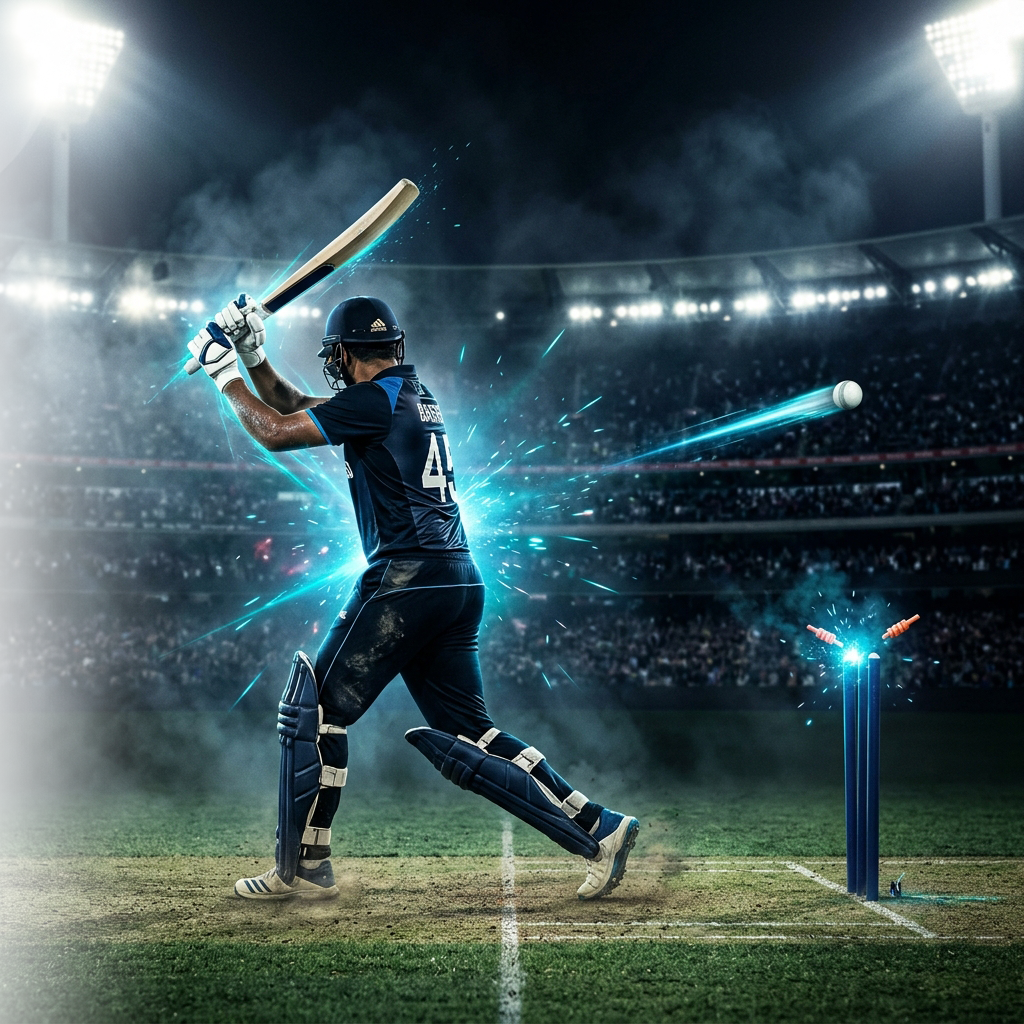
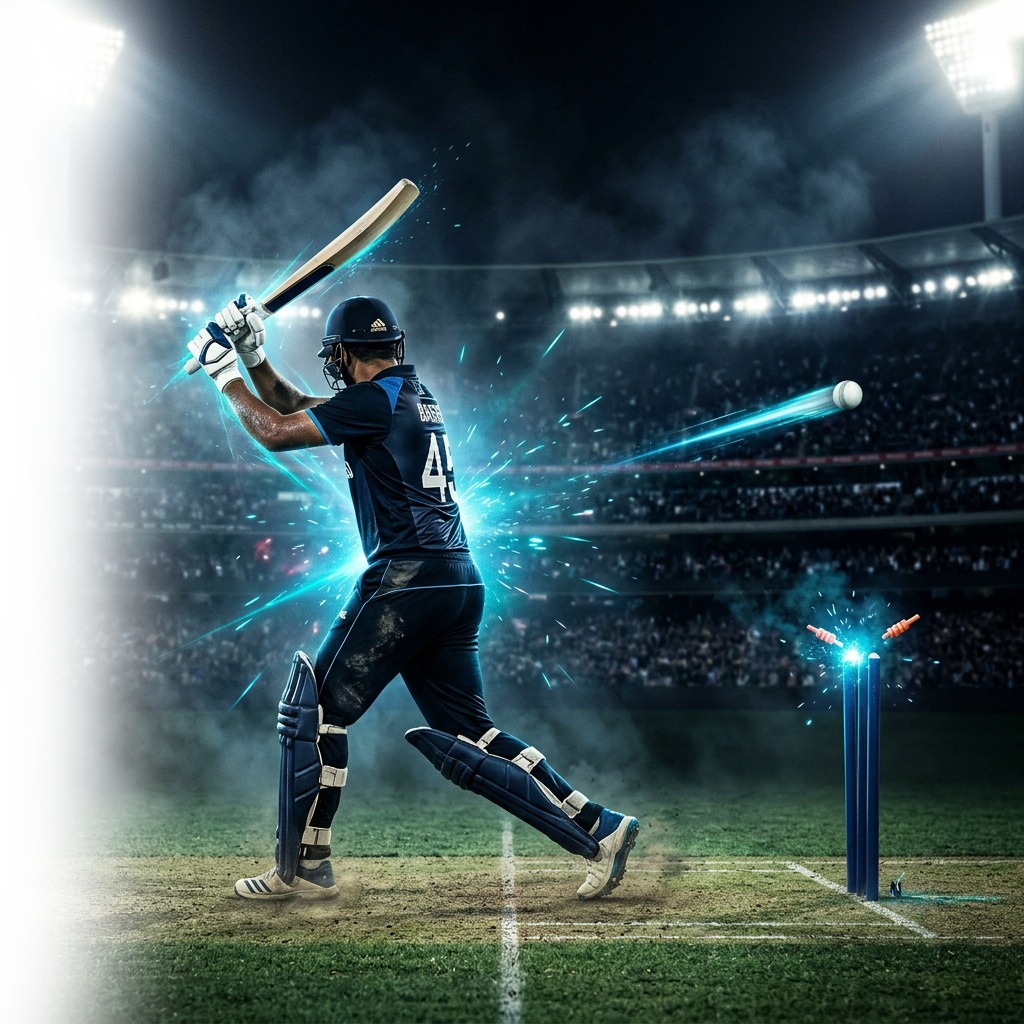
Edit hero section and  memories in gallery component

Changed region(s): [[0.0, 0.0, 0.1875, 1.0]]

diff --git a/src/components/MemoriesGallery.tsx b/src/components/MemoriesGallery.tsx
@@ -5,71 +5,122 @@ import { motion, useInView } from "framer-motion";
 import { Camera, ZoomIn } from "lucide-react";
 import Image from "next/image";
 
-/* ── Each memory tile ──────────────────────────────────────── */
+/* ── Memory tile data ──────────────────────────────────────── */
 interface Memory {
   id: number;
   year: string;
   caption: string;
-  /** Set src to a real image path once photos are available */
   src: string | null;
-  /** Tailwind gradient to use when src is null */
   gradient: string;
-  /** Bento span classes */
+  /** Responsive Tailwind grid span classes */
   span: string;
 }
 
 const MEMORIES: Memory[] = [
+  /* ── Group 1: Bento block (rows 1-3) ── */
   {
     id: 1,
     year: "InfoBash IV",
     caption: "Champions lift the trophy",
     src: null,
     gradient: "from-blue-900 via-blue-800 to-cyan-700",
-    span: "col-span-2 row-span-2",
+    span: "col-span-2 row-span-2 sm:row-span-3",
   },
   {
     id: 2,
     year: "InfoBash IV",
-    caption: "Opening ceremony buzz",
+    caption: "Opening ceremony",
     src: null,
-    gradient: "from-indigo-900 via-violet-800 to-purple-700",
+    gradient: "from-indigo-900 via-violet-800 to-purple-800",
     span: "col-span-1 row-span-1",
   },
   {
     id: 3,
-    year: "InfoBash III",
-    caption: "Match-winning six",
+    year: "InfoBash IV",
+    caption: "Wicket celebrations",
     src: null,
-    gradient: "from-cyan-900 via-teal-800 to-emerald-700",
-    span: "col-span-1 row-span-1",
+    gradient: "from-sky-900 via-blue-800 to-indigo-800",
+    span: "col-span-1 row-span-2 sm:row-span-3",
   },
   {
     id: 4,
     year: "InfoBash III",
-    caption: "Wicket! The crowd erupts",
+    caption: "Match-winning six",
     src: null,
-    gradient: "from-sky-900 via-blue-800 to-indigo-700",
-    span: "col-span-1 row-span-2",
+    gradient: "from-cyan-900 via-teal-800 to-emerald-800",
+    span: "col-span-1 row-span-1",
   },
   {
     id: 5,
-    year: "InfoBash II",
-    caption: "The legendary final over",
+    year: "InfoBash III",
+    caption: "The tense final over",
     src: null,
     gradient: "from-slate-800 via-blue-900 to-cyan-900",
     span: "col-span-1 row-span-1",
   },
+
+  /* ── Group 2: Medium row (rows 4-5) ── */
   {
     id: 6,
-    year: "InfoBash II",
-    caption: "Team photo — Batch 2021",
+    year: "InfoBash III",
+    caption: "Fielding masterclass",
     src: null,
-    gradient: "from-[#0a0f2e] via-indigo-900 to-blue-800",
-    span: "col-span-2 row-span-1",
+    gradient: "from-blue-950 via-indigo-900 to-blue-800",
+    span: "col-span-1 row-span-1 sm:row-span-2",
+  },
+  {
+    id: 7,
+    year: "InfoBash II",
+    caption: "Team photo — Batch 2022",
+    src: null,
+    gradient: "from-[#0d1340] via-slate-800 to-blue-900",
+    span: "col-span-2 row-span-1 sm:row-span-2",
+  },
+  {
+    id: 8,
+    year: "InfoBash II",
+    caption: "Victory lap",
+    src: null,
+    gradient: "from-indigo-950 via-blue-900 to-cyan-900",
+    span: "col-span-1 row-span-1 sm:row-span-2",
+  },
+
+  /* ── Group 3: Small strip (row 6) ── */
+  {
+    id: 9,
+    year: "InfoBash II",
+    caption: "Crowd goes wild",
+    src: null,
+    gradient: "from-blue-900 via-cyan-900 to-teal-900",
+    span: "col-span-1 row-span-1",
+  },
+  {
+    id: 10,
+    year: "InfoBash I",
+    caption: "The first edition",
+    src: null,
+    gradient: "from-purple-900 via-indigo-900 to-blue-900",
+    span: "col-span-1 row-span-1",
+  },
+  {
+    id: 11,
+    year: "InfoBash I",
+    caption: "The inaugural trophy",
+    src: null,
+    gradient: "from-slate-900 via-blue-950 to-indigo-900",
+    span: "col-span-1 row-span-1",
+  },
+  {
+    id: 12,
+    year: "InfoBash I",
+    caption: "Where it all began",
+    src: null,
+    gradient: "from-cyan-950 via-blue-900 to-slate-900",
+    span: "col-span-1 row-span-1",
   },
 ];
 
-/* ── Decorative SVG cricket-stitching pattern overlay ── */
+/* ── Cricket seam pattern overlay ─────────────────────────── */
 function CricketOverlay() {
   return (
     <svg
@@ -78,101 +129,104 @@ function CricketOverlay() {
       aria-hidden="true"
     >
       <defs>
-        <pattern id="cricket-lines" x="0" y="0" width="60" height="60" patternUnits="userSpaceOnUse">
+        <pattern id="seam" x="0" y="0" width="60" height="60" patternUnits="userSpaceOnUse">
           <path d="M0 30 Q15 0 30 30 Q45 60 60 30" stroke="white" strokeWidth="0.8" fill="none" />
           <path d="M0 30 Q15 60 30 30 Q45 0 60 30" stroke="white" strokeWidth="0.8" fill="none" />
         </pattern>
       </defs>
-      <rect width="100%" height="100%" fill="url(#cricket-lines)" />
+      <rect width="100%" height="100%" fill="url(#seam)" />
     </svg>
   );
 }
 
-/* ── Single tile ──────────────────────────────────────────── */
+/* ── Single tile ───────────────────────────────────────────── */
 function Tile({ memory, index }: { memory: Memory; index: number }) {
   const [hovered, setHovered] = useState(false);
 
   return (
     <motion.div
-      className={`group relative overflow-hidden rounded-2xl ${memory.span} cursor-pointer`}
-      initial={{ opacity: 0, scale: 0.92, y: 20 }}
+      className={`group relative cursor-pointer overflow-hidden rounded-2xl ${memory.span}`}
+      initial={{ opacity: 0, scale: 0.93, y: 18 }}
       whileInView={{ opacity: 1, scale: 1, y: 0 }}
-      viewport={{ once: true, margin: "-40px" }}
-      transition={{ duration: 0.6, delay: index * 0.08, ease: [0.22, 1, 0.36, 1] as const }}
+      viewport={{ once: true, margin: "-30px" }}
+      transition={{ duration: 0.55, delay: index * 0.06, ease: [0.22, 1, 0.36, 1] as const }}
       onHoverStart={() => setHovered(true)}
       onHoverEnd={() => setHovered(false)}
-      whileHover={{ scale: 1.02 }}
+      whileHover={{ scale: 1.025, transition: { duration: 0.25 } }}
     >
-      {/* Image or gradient placeholder */}
+      {/* Background — real photo or gradient placeholder */}
       {memory.src ? (
         <Image
           src={memory.src}
           alt={memory.caption}
           fill
           className="object-cover transition-transform duration-700 group-hover:scale-110"
-          sizes="(max-width: 768px) 100vw, 50vw"
+          sizes="(max-width: 640px) 50vw, 25vw"
         />
       ) : (
         <div className={`absolute inset-0 bg-gradient-to-br ${memory.gradient}`}>
           <CricketOverlay />
-          {/* Placeholder icon */}
-          <div className="absolute inset-0 flex flex-col items-center justify-center gap-3 opacity-30">
-            <Camera size={32} className="text-white" />
-            <span className="font-mono-score text-[10px] uppercase tracking-widest text-white">
+          <div className="absolute inset-0 flex flex-col items-center justify-center gap-2 opacity-25">
+            <Camera size={28} className="text-white" />
+            <span className="font-mono-score text-[9px] uppercase tracking-widest text-white">
               Photo Coming Soon
             </span>
           </div>
         </div>
       )}
 
-      {/* Persistent dark gradient at bottom */}
-      <div className="absolute inset-x-0 bottom-0 h-2/3 bg-gradient-to-t from-black/80 via-black/30 to-transparent" />
+      {/* Bottom fade for captions */}
+      <div className="absolute inset-x-0 bottom-0 h-2/3 bg-gradient-to-t from-black/80 via-black/20 to-transparent" />
 
-      {/* Hover: full overlay */}
+      {/* Hover: cyan tint */}
       <motion.div
-        className="absolute inset-0 bg-cyan-400/10 backdrop-blur-[1px]"
+        className="absolute inset-0 bg-cyan-400/8 backdrop-blur-[0.5px]"
         animate={{ opacity: hovered ? 1 : 0 }}
-        transition={{ duration: 0.25 }}
+        transition={{ duration: 0.2 }}
       />
 
-      {/* Hover: zoom icon */}
+      {/* Zoom icon */}
       <motion.div
-        className="absolute right-3 top-3 flex h-8 w-8 items-center justify-center rounded-full bg-white/10 backdrop-blur-sm"
-        animate={{ opacity: hovered ? 1 : 0, scale: hovered ? 1 : 0.7 }}
+        className="absolute right-2.5 top-2.5 flex h-7 w-7 items-center justify-center rounded-full bg-black/30 backdrop-blur-sm"
+        animate={{ opacity: hovered ? 1 : 0, scale: hovered ? 1 : 0.6 }}
         transition={{ duration: 0.2 }}
       >
-        <ZoomIn size={14} className="text-white" />
+        <ZoomIn size={13} className="text-white" />
       </motion.div>
 
       {/* Year badge */}
-      <div className="absolute left-3 top-3 rounded-full border border-cyan-400/30 bg-navy-950/70 px-2.5 py-1 backdrop-blur-sm">
-        <span className="font-mono-score text-[10px] uppercase tracking-widest text-cyan-300">
+      <div className="absolute left-2.5 top-2.5 rounded-full border border-cyan-400/25 bg-black/40 px-2 py-0.5 backdrop-blur-sm">
+        <span className="font-mono-score text-[9px] uppercase tracking-widest text-cyan-300">
           {memory.year}
         </span>
       </div>
 
       {/* Caption */}
       <motion.div
-        className="absolute inset-x-0 bottom-0 p-4"
-        animate={{ y: hovered ? 0 : 6, opacity: hovered ? 1 : 0.75 }}
-        transition={{ duration: 0.25 }}
+        className="absolute inset-x-0 bottom-0 p-3"
+        animate={{ y: hovered ? 0 : 5, opacity: hovered ? 1 : 0.7 }}
+        transition={{ duration: 0.2 }}
       >
-        <p className="font-display text-sm tracking-wide text-ivory-50 drop-shadow-lg sm:text-base">
+        <p className="font-display text-xs tracking-wide text-ivory-50 drop-shadow-lg sm:text-sm">
           {memory.caption}
         </p>
       </motion.div>
 
-      {/* Glowing border on hover */}
+      {/* Glow border */}
       <motion.div
         className="pointer-events-none absolute inset-0 rounded-2xl"
-        animate={{ boxShadow: hovered ? "0 0 0 1.5px rgba(53,215,255,0.45)" : "0 0 0 0px rgba(53,215,255,0)" }}
-        transition={{ duration: 0.25 }}
+        animate={{
+          boxShadow: hovered
+            ? "0 0 0 1.5px rgba(53,215,255,0.5)"
+            : "0 0 0 0px rgba(53,215,255,0)",
+        }}
+        transition={{ duration: 0.2 }}
       />
     </motion.div>
   );
 }
 
-/* ── Main section ─────────────────────────────────────────── */
+/* ── Main section ──────────────────────────────────────────── */
 export default function MemoriesGallery() {
   const headingRef = useRef<HTMLDivElement>(null);
   const headingInView = useInView(headingRef, { once: true, margin: "-60px" });
@@ -181,17 +235,17 @@ export default function MemoriesGallery() {
     <section className="relative overflow-hidden bg-[#060c1a] py-24">
       {/* Ambient glow */}
       <div className="pointer-events-none absolute inset-0">
-        <div className="absolute left-0 top-1/3 h-[500px] w-[500px] -translate-x-1/2 rounded-full bg-blue-600/10 blur-[160px]" />
-        <div className="absolute right-0 bottom-1/3 h-[400px] w-[400px] translate-x-1/2 rounded-full bg-cyan-400/8 blur-[140px]" />
+        <div className="absolute left-0 top-1/4 h-[500px] w-[500px] -translate-x-1/2 rounded-full bg-blue-600/10 blur-[160px]" />
+        <div className="absolute bottom-1/4 right-0 h-[400px] w-[400px] translate-x-1/2 rounded-full bg-cyan-500/8 blur-[140px]" />
       </div>
 
-      <div className="relative z-10 mx-auto max-w-7xl px-6">
+      <div className="relative z-10 mx-auto max-w-7xl px-4 sm:px-6">
         {/* Heading */}
         <motion.div
           ref={headingRef}
           animate={headingInView ? { opacity: 1, y: 0 } : { opacity: 0, y: 30 }}
           transition={{ duration: 0.65, ease: [0.22, 1, 0.36, 1] as const }}
-          className="mb-14 flex flex-col items-center text-center"
+          className="mb-12 flex flex-col items-center text-center"
         >
           <span className="font-mono-score text-[11px] uppercase tracking-[0.45em] text-gold-400">
             Through The Years
@@ -207,14 +261,28 @@ export default function MemoriesGallery() {
           </p>
         </motion.div>
 
-        {/* Bento grid */}
-        <div className="grid auto-rows-[200px] grid-cols-2 gap-4 sm:auto-rows-[220px] sm:grid-cols-4 lg:auto-rows-[240px]">
+        {/* 
+          Grid layout (4 cols, auto-rows-[140px]):
+          ┌────────────┬──────┬──────────┐
+          │            │  2   │          │
+          │     1      ├──────┤    3     │  rows 1-3
+          │  (2×3)     │  4   │  (1×3)   │
+          │            ├──────┤          │
+          │            │  5   │          │
+          ├──────┬─────┴─┬────┴──────────┤
+          │  6   │   7   │       8       │  rows 4-5
+          │      │ (2×2) │               │
+          ├──────┼───────┼───────┬───────┤
+          │  9   │  10   │  11   │  12   │  row 6
+          └──────┴───────┴───────┴───────┘
+        */}
+        <div className="grid auto-rows-[140px] grid-cols-2 gap-3 sm:grid-cols-4 sm:gap-4">
           {MEMORIES.map((memory, i) => (
             <Tile key={memory.id} memory={memory} index={i} />
           ))}
         </div>
 
-        {/* Bottom strip — film-reel feel */}
+        {/* Film-reel footer strip */}
         <div className="mt-6 flex items-center gap-3">
           <div className="h-px flex-1 bg-gradient-to-r from-transparent via-cyan-400/20 to-transparent" />
           <span className="font-mono-score text-[10px] uppercase tracking-[0.4em] text-ivory-500">

diff --git a/src/app/page.tsx b/src/app/page.tsx
@@ -201,6 +201,9 @@ export default function Home() {
               sizes="50vw"
             />
 
+            {/* Left-edge blend: merges seamlessly into the dark left panel */}
+            <div className="absolute inset-y-0 left-0 z-10 w-48 bg-gradient-to-r from-[#060c1a] via-[#060c1a]/75 to-transparent" />
+
             {/* Top-edge blend */}
             <div className="absolute inset-x-0 top-0 z-10 h-28 bg-gradient-to-b from-[#060c1a]/70 to-transparent" />
 